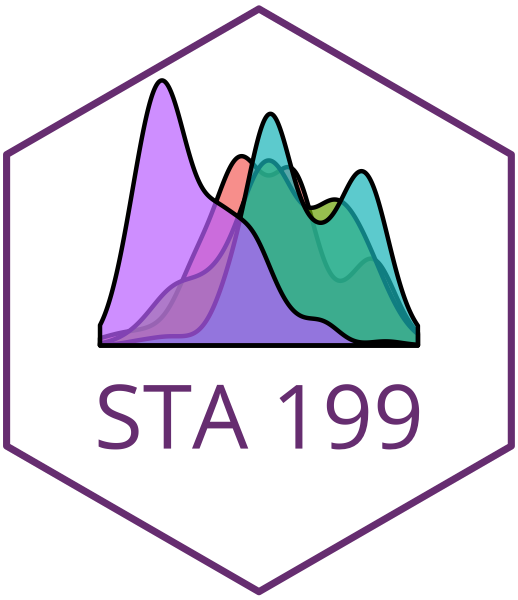
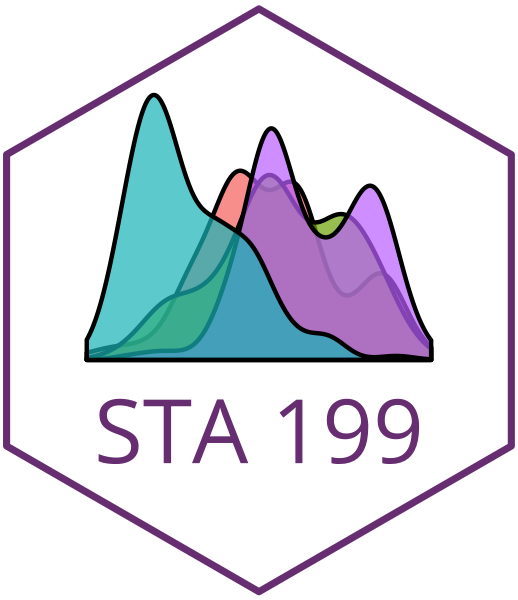
update sta199 sticker.

Changed region(s): [[0.1544, 0.12, 0.8649, 0.78], [0.556, 0.75, 0.5869, 0.78], [0.3089, 0.75, 0.3398, 0.78]]

diff --git a/sta199-sticker.md b/sta199-sticker.md
@@ -42,9 +42,10 @@ A multinomial logistic regression model is used to create the main plot. The res
 
 ``` r
 p <- ggplot(data=bikeshare,aes(x=cnt,fill=season)) +
-  geom_density(alpha=0.5) +
+  geom_density(alpha=0.7) +
+  scale_fill_manual( values = c("#F8766D","#7CAE00","#C77CFF","#00BFC4")) +
   theme_void() +
-  theme(legend.position="none")
+  theme(legend.position="none") 
 ```
 
 Make Sticker
@@ -57,9 +58,7 @@ font_add_google("Open Sans", "open")
 
 ``` r
 # create and save sticker
-sticker(p, package="STA 199",p_color="#7A4183", p_family="open", p_size=7.5, p_y=0.6, s_x=1, s_y=1.3, s_width=1.2, s_height=1, h_fill = "#FFFFFF", 
-        h_color="#7A4183", h_size =0.8,
-        filename="static/img/sta199_sticker.png")
+sticker(p, package="STA 199",p_color="#7A4183", p_family="open", p_size=7.5, p_y=0.55, s_x=1, s_y=1.25, s_width=1.3, s_height=1, h_fill = "#FFFFFF", h_color="#7A4183", h_size =0.8, filename="static/img/sta199_sticker.png")
 ```
 
 ``` r
